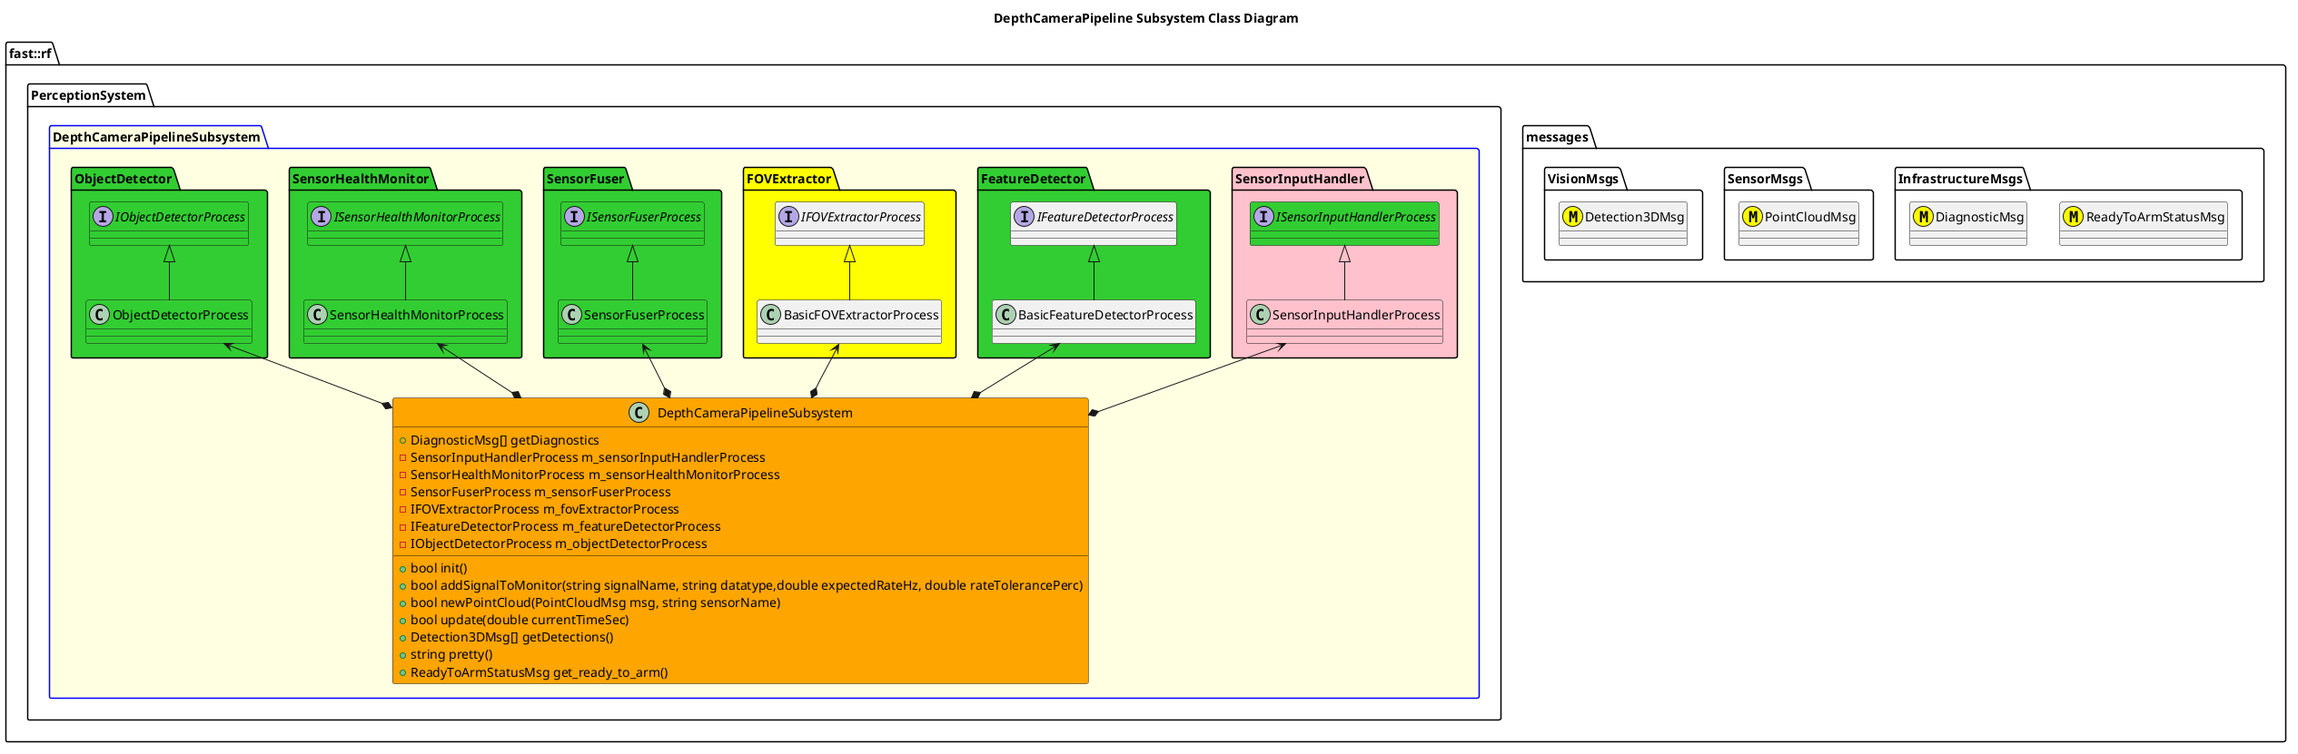
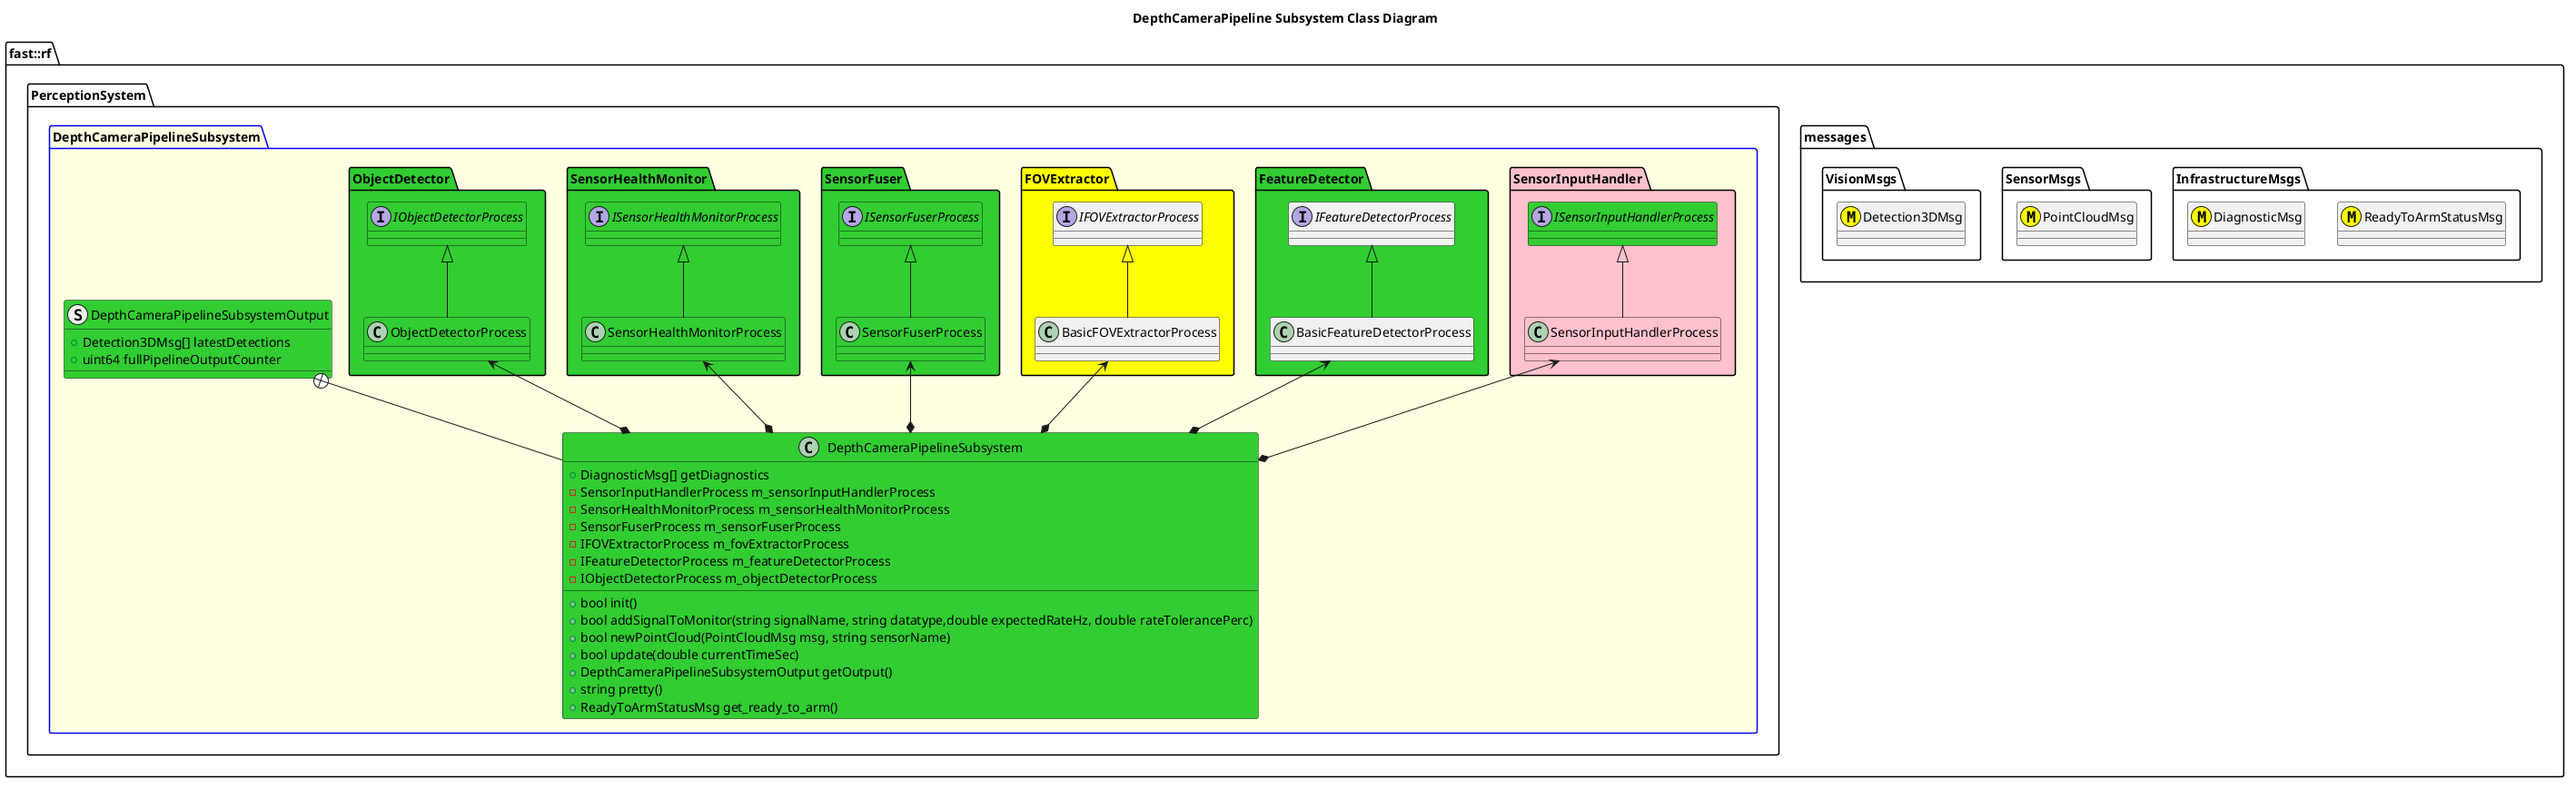
Updates

diff --git a/Systems/Perception/Subsystems/DepthCameraPipeline/include/DepthCameraPipelineSubsystem.hpp b/Systems/Perception/Subsystems/DepthCameraPipeline/include/DepthCameraPipelineSubsystem.hpp
@@ -27,6 +27,10 @@ namespace fast::rf::PerceptionSystem::DepthCameraPipelineSubsystem {
      */
     class DepthCameraPipelineSubsystem {
        public:
+        struct DepthCameraPipelineSubsystemOutput {
+            std::vector<fast::rf::messages::VisionMsgs::Detection3DMsg> latestDetections;
+            uint64_t fullPipelineOutputCounter{0};
+        };
         DepthCameraPipelineSubsystem()
             : m_sensorInputHandlerProcess(std::make_shared<fast::rf::PerceptionSystem::DepthCameraPipelineSubsystem::
                                                                SensorInputHandler::SensorInputHandlerProcess>()),
@@ -69,6 +73,7 @@ namespace fast::rf::PerceptionSystem::DepthCameraPipelineSubsystem {
             return m_sensorHealthMonitorProcess->addSignalToMonitor(signalName, datatype, expectedRateHz,
                                                                     rateTolerancePerc);
         }
+        DepthCameraPipelineSubsystemOutput getOutput() { return m_output; }
         /**
          * @brief Process a new Point Cloud
          *
@@ -122,5 +127,7 @@ namespace fast::rf::PerceptionSystem::DepthCameraPipelineSubsystem {
             m_objectDetectorProcess;
         std::unordered_map<std::string, std::shared_ptr<fast::rf::IProcess>> m_pipeline;
         fast::rf::messages::InfrastructureMsgs::ReadyToArmStatusMsg m_readyToArm;
+
+        DepthCameraPipelineSubsystemOutput m_output;
     };
 }  // namespace fast::rf::PerceptionSystem::DepthCameraPipelineSubsystem

diff --git a/Systems/Perception/Subsystems/DepthCameraPipeline/src/DepthCameraPipelineSubsystem.cpp b/Systems/Perception/Subsystems/DepthCameraPipeline/src/DepthCameraPipelineSubsystem.cpp
@@ -48,6 +48,10 @@ namespace fast::rf::PerceptionSystem::DepthCameraPipelineSubsystem {
         auto latestFusedPointCloud = m_sensorFuserProcess->getLatestFusedPointCloud();
         auto featureCloud = m_featureDetectorProcess->detectFeatures(latestFusedPointCloud);
         auto detections = m_objectDetectorProcess->detectObjects(featureCloud);
+        if (featureCloud.isValidFeatureCloud()) {
+            m_output.latestDetections = detections;
+            m_output.fullPipelineOutputCounter++;
+        }
         bool readyToArmFlag = true;
         for (auto& process : m_pipeline) {
             bool status = process.second->update(currentTimeSec);

diff --git a/Systems/Perception/Subsystems/DepthCameraPipeline/src/test/test_depthCameraPipelineSubsystem.cpp b/Systems/Perception/Subsystems/DepthCameraPipeline/src/test/test_depthCameraPipelineSubsystem.cpp
@@ -50,4 +50,6 @@ TEST(DepthCameraPipelineSubsystem, BasicTests) {
     ASSERT_FALSE(readyToArm.ready_to_arm);
     auto diagnostics = SUT.getDiagnostics();
     ASSERT_GT(diagnostics.size(), 0);
+    auto output = SUT.getOutput();
+    ASSERT_GT(output.fullPipelineOutputCounter, 0);
 }

diff --git a/Systems/Perception/Subsystems/DepthCameraPipeline/doc/Subsystem-DepthCameraPipeline.md b/Systems/Perception/Subsystems/DepthCameraPipeline/doc/Subsystem-DepthCameraPipeline.md
@@ -79,7 +79,7 @@ The `DepthCameraPipelineSubsystem` class can be used to directly run all the chi
 | DRAFT  | [Sensor Fuser](../Processes/SensorFuser/doc/Process-SensorFuser.md)                          |
 | NEW    | [FOV Extractor](../Processes/FOVExtractor/doc/Process-FOVExtractor.md)                       |
 | DRAFT  | [Feature Detector](../Processes/FeatureDetector/doc/Process-FeatureDetector.md)              |
-| NEW    | [Object Detector](../Processes/ObjectDetector/doc/Process-ObjectDetector.md)                 |
+| DRAFT  | [Object Detector](../Processes/ObjectDetector/doc/Process-ObjectDetector.md)                 |
 
 
 
